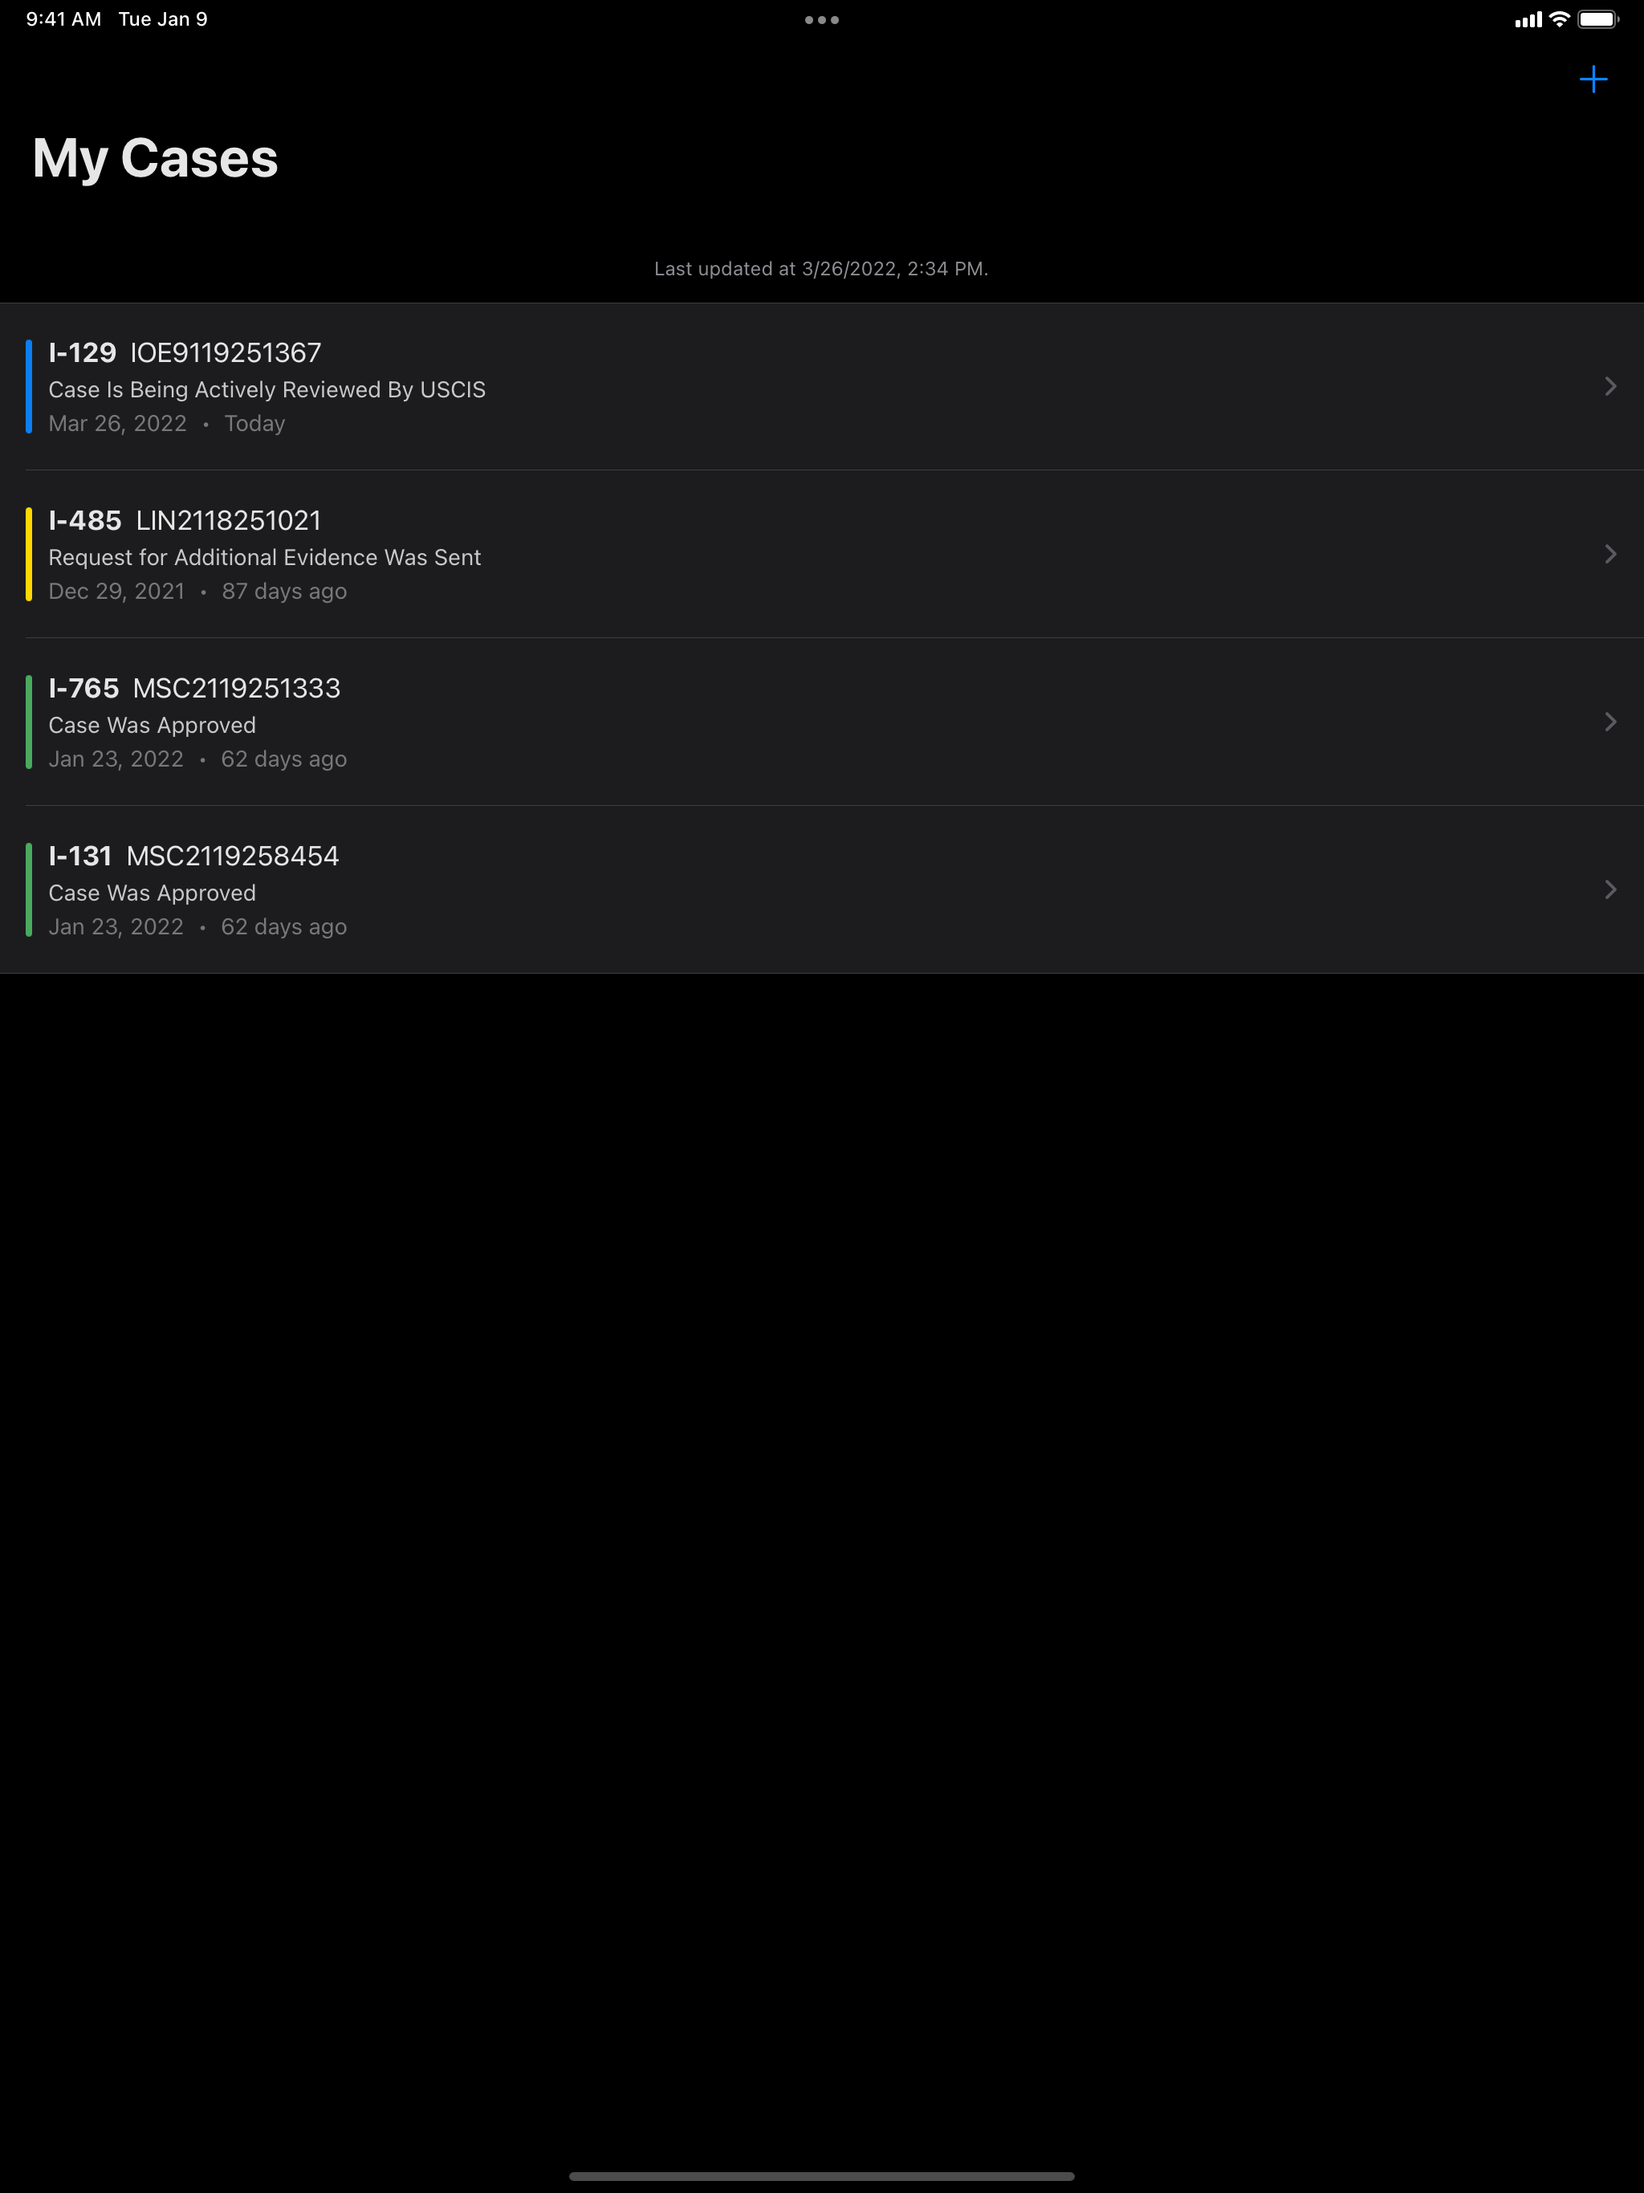
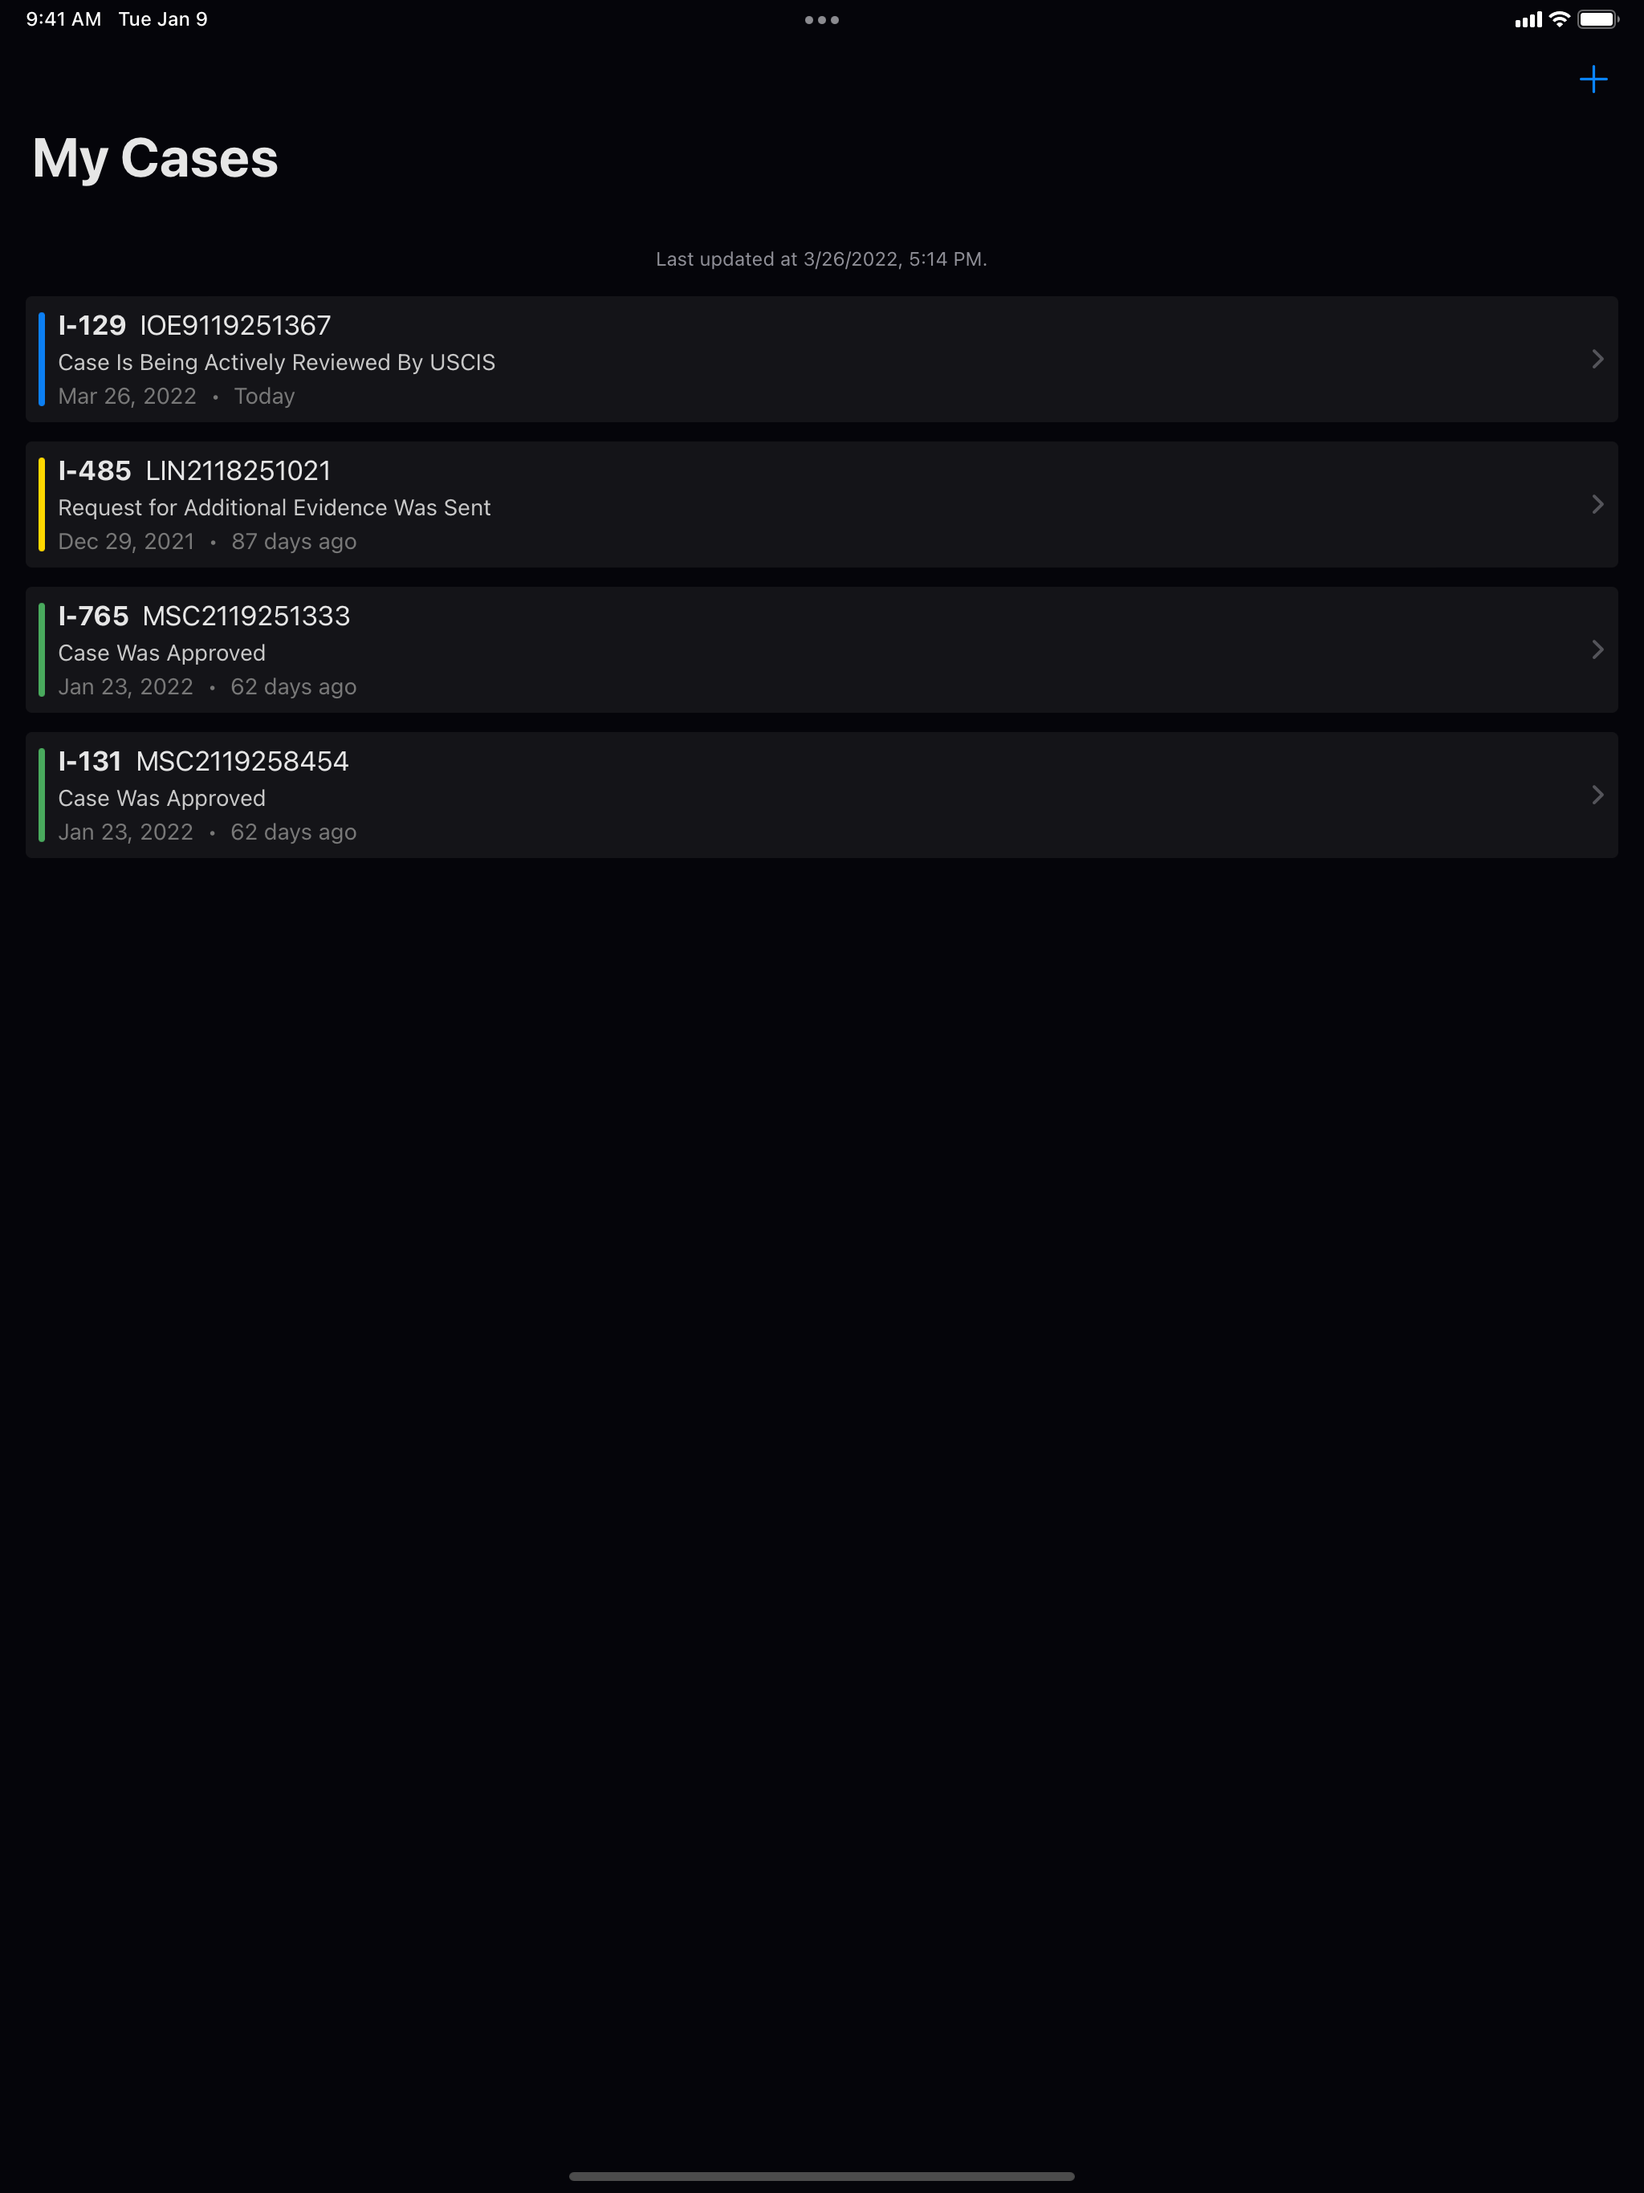
change back list style with navigation link and button styles

Changed region(s): [[0.0, 0.1245, 0.3125, 0.4356], [0.4062, 0.0933, 0.5312, 0.1245], [0.5625, 0.0933, 0.5938, 0.1245]]

diff --git a/CaseTracker/View/Home/CaseRowView.swift b/CaseTracker/View/Home/CaseRowView.swift
@@ -7,51 +7,89 @@
 
 import SwiftUI
 
-struct CaseRowView: View {
+struct CaseRowView<Content: View>: View {
 
     @ScaledMetric var fontSize: CGFloat = 14
+    @State var selected: Bool = false
 
     let model: CaseStatus
+    let destination: () -> Content
+
+    init(model: CaseStatus, @ViewBuilder destination: @escaping () -> Content) {
+        self.model = model
+        self.destination = destination
+    }
 
     var body: some View {
-        HStack(spacing: 0) {
+        NavigationLink(
+            destination: destination(),
+            isActive: $selected,
+            label: {
+                Button(
+                    action: {
+                        selected = true
+                    },
+                    label: {
+                        HStack(spacing: 0) {
 
-            RoundedRectangle(cornerRadius: 4)
-                .frame(width: 4)
-                .foregroundColor(model.color)
-                .padding(.trailing, 10)
-                .padding([.top, .bottom], 2)
+                            RoundedRectangle(cornerRadius: 4)
+                                .frame(width: 4)
+                                .foregroundColor(model.color)
+                                .padding(.trailing, 8)
+                                .padding([.top, .bottom], 2)
 
-            VStack(alignment: .leading, spacing: 4) {
+                            VStack(alignment: .leading, spacing: 4) {
 
-                HStack(alignment: .center, spacing: 8) {
-                    if let formType = model.formType {
-                        Text(formType)
-                            .fontWeight(.bold)
-                            .foregroundColor(.ctTextPrimary)
-                    }
-                    Text(model.id)
-                        .foregroundColor(.ctTextPrimary)
-                }
+                                HStack(alignment: .center, spacing: 8) {
+                                    if let formType = model.formType {
+                                        Text(formType)
+                                            .fontWeight(.bold)
+                                            .foregroundColor(.ctTextPrimary)
+                                    }
+                                    Text(model.id)
+                                        .foregroundColor(.ctTextPrimary)
+                                }
 
-                Text(model.status)
-                    .font(.system(size: fontSize))
-                    .foregroundColor(.ctTextSecondary)
+                                Text(model.status)
+                                    .font(.system(size: fontSize))
+                                    .foregroundColor(.ctTextSecondary)
 
-                if !model.lastUpdatedFormatted.isEmpty {
-                    HStack {
-                        Text(model.lastUpdatedFormatted)
-                        if !model.lastUpdatedRelativeDaysFormatted.isEmpty {
-                            Text("•")
-                            Text(model.lastUpdatedRelativeDaysFormatted)
+                                if !model.lastUpdatedFormatted.isEmpty {
+                                    HStack {
+                                        Text(model.lastUpdatedFormatted)
+                                        if !model.lastUpdatedRelativeDaysFormatted.isEmpty {
+                                            Text("•")
+                                            Text(model.lastUpdatedRelativeDaysFormatted)
+                                        }
+                                    }
+                                    .font(.system(size: fontSize))
+                                    .foregroundColor(.ctTextTertiary)
+                                }
+                            }
+
+                            Spacer()
                         }
-                    }
-                    .font(.system(size: fontSize))
-                    .foregroundColor(.ctTextTertiary)
-                }
+                        .background(Color.ctBackgroundSecondary.opacity(0.01)) // Increase touch area
+                        .padding(8)
+                    })
+                    .buttonStyle(CaseRowViewButtonStyle())
+                    .frame(maxWidth: .infinity)
             }
-        }
-        .padding([.top, .bottom], 15)
+        )
+            .padding(.trailing, 8)
+            .background(Color.ctBackgroundSecondary)
+            .clipShape(RoundedRectangle(cornerRadius: 4))
+            .listRowSeparator(.hidden)
+            .listRowBackground(Color.clear)
+            .accessibility(identifier: model.receiptNumber)
+    }
+}
+
+struct CaseRowViewButtonStyle: ButtonStyle {
+    func makeBody(configuration: Configuration) -> some View {
+        configuration
+            .label
+            .opacity(configuration.isPressed ? 0.5 : 1)
     }
 }
 
@@ -78,16 +116,16 @@ struct CaseRowView_Previews: PreviewProvider {
     static var previews: some View {
         Group {
             VStack(alignment: .leading) {
-                CaseRowView(model: model1)
-                CaseRowView(model: model2)
-                CaseRowView(model: model3)
+                CaseRowView(model: model1) { EmptyView() }
+                CaseRowView(model: model2) { EmptyView() }
+                CaseRowView(model: model3) { EmptyView() }
             }
             .preferredColorScheme(.light)
 
             VStack(alignment: .leading) {
-                CaseRowView(model: model1)
-                CaseRowView(model: model2)
-                CaseRowView(model: model3)
+                CaseRowView(model: model1) { EmptyView() }
+                CaseRowView(model: model2) { EmptyView() }
+                CaseRowView(model: model3) { EmptyView() }
             }
             .preferredColorScheme(.dark)
         }

diff --git a/CaseTracker/View/Home/HomeView.swift b/CaseTracker/View/Home/HomeView.swift
@@ -20,20 +20,19 @@ struct HomeView: View {
 
     var caseList: some View {
         List {
-            Section(header: Text(viewModel.lastUpdatedLoadingMessage)
-                        .updatedCaptionTextStyle()) {
+            Section(header: Text(viewModel.lastUpdatedLoadingMessage).updatedCaptionTextStyle()) {
 
                 if let errorMessage = viewModel.errorMessage {
-                    Text(errorMessage)
-                        .updatedCaptionTextStyle()
+                    Text(errorMessage).updatedCaptionTextStyle()
                 }
 
                 ForEach(viewModel.cases, id: \.id) { caseStatus in
-                    NavigationLink(destination: DetailsView(viewModel: viewModel.createDetailsViewModel(), caseStatus: caseStatus) {
-                        viewModel.removeCase(receiptNumber: $0)
-                    }) {
-                        CaseRowView(model: caseStatus)
+                    CaseRowView(model: caseStatus) {
+                        DetailsView(viewModel: viewModel.createDetailsViewModel(), caseStatus: caseStatus) {
+                            viewModel.removeCase(receiptNumber: $0)
+                        }
                     }
+                    .opacity(viewModel.loading ? 0.3 : 1.0)
                     .accessibility(identifier: caseStatus.receiptNumber)
                 }
                 .onDelete { indexSet in
@@ -42,10 +41,10 @@ struct HomeView: View {
                         viewModel.removeCase(atIndex: index)
                     }
                 }
-                .opacity(viewModel.loading ? 0.3 : 1.0)
             }
         }
-        .listStyle(.grouped)
+        .background(Color.ctBackgroundPrimary)
+        .listStyle(.plain)
     }
 
     var addButton: some View {
@@ -90,6 +89,7 @@ struct HomeView: View {
             }
             .navigationBarTitle("My Cases")
         }
+        .background(Color.ctBackgroundPrimary)
         .navigationViewStyle(.stack)
         .alert(isPresented: $viewModel.isNetworkMessagePresented) {
             networkAlertView
